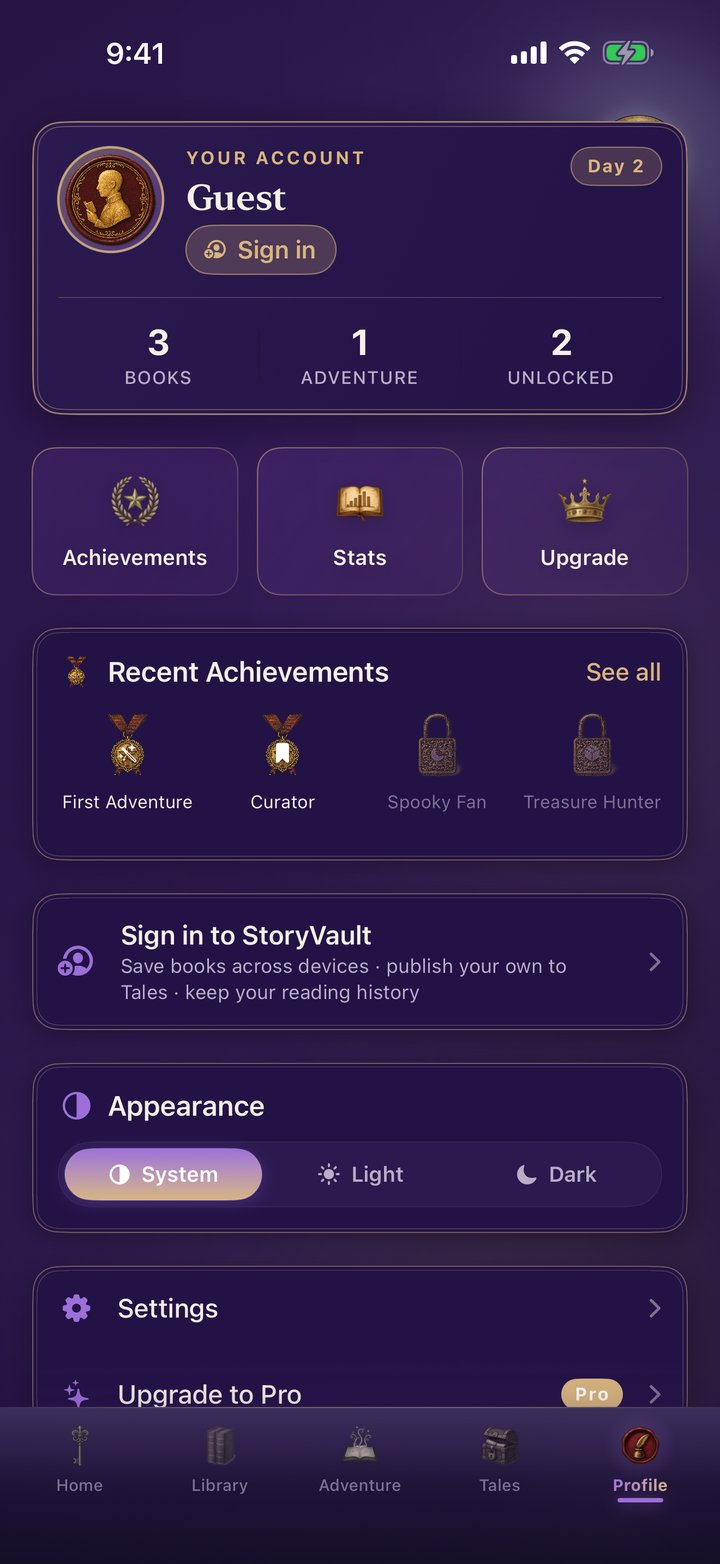
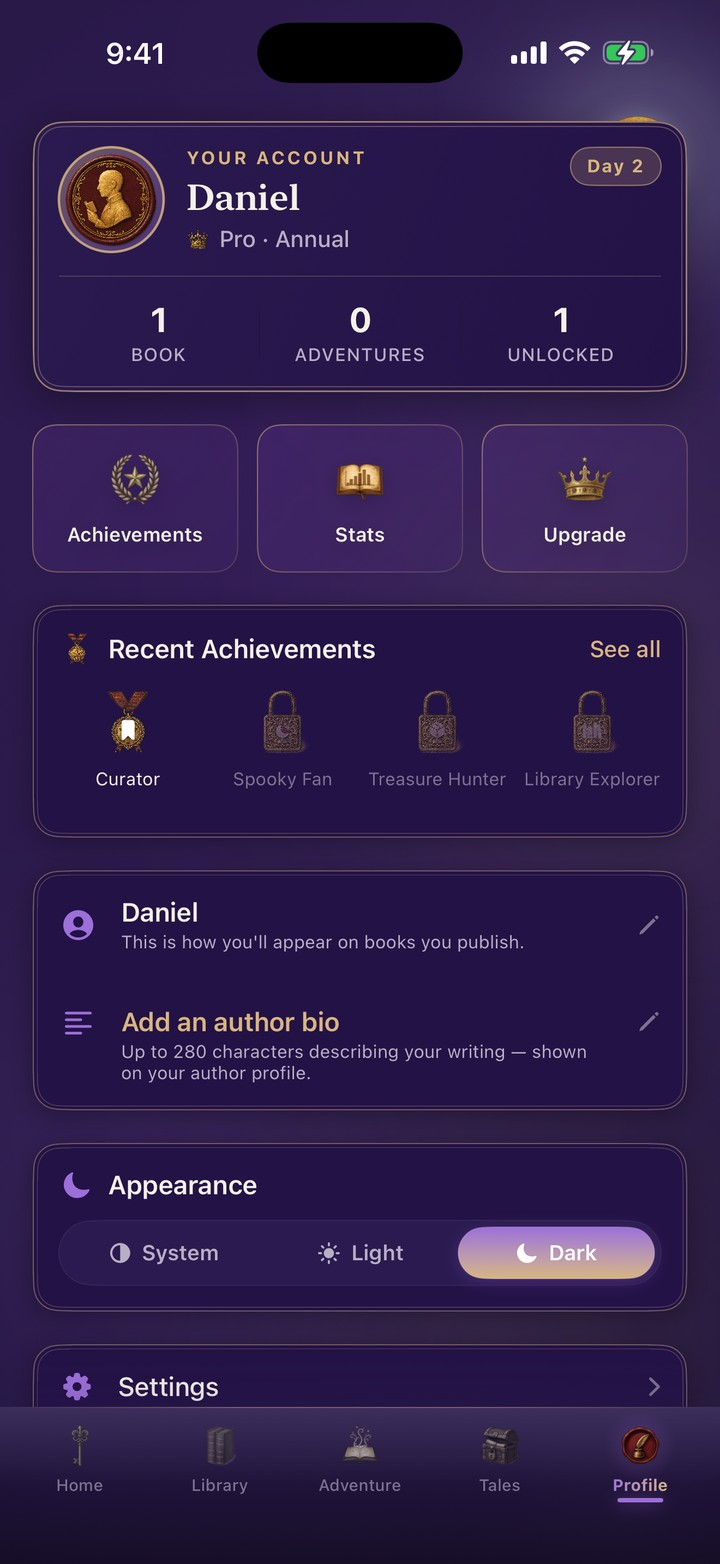
Real AI-art adventure turn + signed-in Pro profile screenshots
adventure-turn.jpg previously captured the 'Painting your scene'
placeholder (no art). Replace with a live turn showing a real
AI-generated scene painting (The Prismshard Heist), dark mode, no
upgrade banner; update the turn-panel copy to match.

profile-dark.jpg: signed-in Pro account (real display name, no Guest
label / sign-in prompts) instead of the signed-out Guest state.

diff --git a/index.html b/index.html
@@ -1092,7 +1092,7 @@
             <div class="device device-hero">
               <div class="hero-carousel">
                 <img src="screenshots/home.jpg" width="720" height="1564" alt="StoryVault AI home in light mode — Continue Reading Frankenstein, Write a Story and AI Adventure buttons, and Most Popular classics">
-                <img src="screenshots/adventure-turn.jpg" width="720" height="1564" alt="A live AI Adventure turn — Beowulf at Heorot in dark mode, a painted scene above the story text and a 'Type your own move' box" loading="lazy">
+                <img src="screenshots/adventure-turn.jpg" width="720" height="1564" alt="A live AI Adventure turn — The Prismshard Heist in dark mode, a painted scene above the story text and a 'Type your own move' box" loading="lazy">
                 <img src="screenshots/library.jpg" width="720" height="1564" alt="Your Vault library in light mode — the Veilkeep Manor adventure beside Alice, Dracula, and Frankenstein" loading="lazy">
                 <img src="screenshots/reader-dark.jpg" width="720" height="1564" alt="The reader in dark mode — Alice in Wonderland in a clean night-reading view" loading="lazy">
                 <img src="screenshots/write-story.jpg" width="720" height="1564" alt="Write Your Own Story composer in light mode — quick-start flavors and Conjure a Story" loading="lazy">
@@ -1172,20 +1172,20 @@
         <div class="reveal">
           <div class="device-stage">
             <div class="device">
-              <img src="screenshots/adventure-turn.jpg" width="720" height="1564" alt="A live AI Adventure turn — Beowulf at Heorot, Chapter 1: a scene painting for the turn, the story written in the source's own voice, and a 'Type your own move' box" loading="lazy">
+              <img src="screenshots/adventure-turn.jpg" width="720" height="1564" alt="A live AI Adventure turn — The Prismshard Heist, Chapter 1: a scene painting for the turn, the story written in a vivid heist-noir voice, and a 'Type your own move' box" loading="lazy">
             </div>
           </div>
         </div>
         <div class="turn-panel reveal">
-          <div class="turn-kicker">Beowulf at Heorot · Chapter 1 · Arrival on the Danish shore</div>
-          <p class="prose">You step forward, resolute, feeling the weight of your sword as it hangs at your side. The Danish shore is grey with morning, and somewhere past the dunes stands Heorot — <em>the mead-hall that has not known a quiet night in twelve winters.</em></p>
+          <div class="turn-kicker">The Prismshard Heist · Chapter 1 · Approach</div>
+          <p class="prose">Three bells past midnight, and Halen breathes the kind of quiet that belongs only to cats and thieves. The mist sits low on the canal, smelling of brine and old rope, and <em>the cold of the tiles seeps through your boots like a slow debt.</em></p>
           <div class="turn-choices">
-            <div class="turn-choice"><span class="n">1</span> Stride to Heorot's doors and announce yourself to the watchman</div>
-            <div class="turn-choice"><span class="n">2</span> Make camp on the headland and watch the mere until dark</div>
-            <div class="turn-choice"><span class="n">3</span> Seek out Hrothgar's men quietly and learn what stalks the hall</div>
+            <div class="turn-choice"><span class="n">1</span> Cross by the bridge and go in at ground level</div>
+            <div class="turn-choice"><span class="n">2</span> Signal Mora to test the wards with a prayer before moving</div>
+            <div class="turn-choice"><span class="n">3</span> Send Pell to shadow the errant sentry first</div>
           </div>
-          <div class="turn-custom">Or type your own — "Ask the coast-warden who was lost to Grendel."</div>
-          <p class="turn-note">The turn shown on the phone, set in readable type — a live run of the real Beowulf at Heorot scenario. Each turn opens with a scene the app paints for it; every branch is written fresh, so no two runs are the same.</p>
+          <div class="turn-custom">Or type your own — "What if I refused the invitation?"</div>
+          <p class="turn-note">The turn shown on the phone, set in readable type — a live run of the real Prismshard Heist scenario. Each turn opens with a scene the app paints for it; every branch is written fresh, so no two runs are the same.</p>
         </div>
       </div>
 